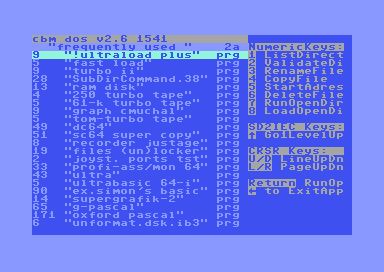
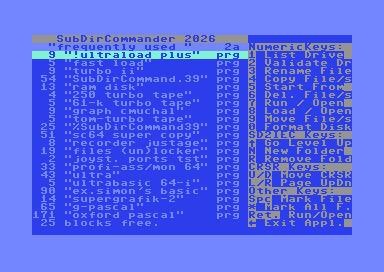
Show the current commander screen and list pi1541 and Kung Fu Flash.
The page now matches the help panel and the block counts, and says which commands Kung Fu Flash does not implement.

diff --git a/web/index.html b/web/index.html
@@ -4,7 +4,7 @@
     <meta charset="UTF-8" />
     <link rel="icon" type="image/svg+xml" href="./public/favicon.svg" />
     <meta name="viewport" content="width=device-width, initial-scale=1.0" />
-    <meta name="description" content="SubDirCommander 2026: a disk commander for the Commodore 64, in BASIC and machine code." />
+    <meta name="description" content="SubDirCommander 2026: a disk commander for the Commodore 64, for a 1541, SD2IEC, pi1541 or Kung Fu Flash." />
     <title>SubDirCommander 2026 for the C64</title>
     <link rel="stylesheet" href="./src/style.css" />
   </head>
@@ -12,29 +12,34 @@
     <main>
       <header class="hero">
         <div class="hero-text">
-          <p class="kicker">Commodore 64 · 1541 / 1541-II · SD2IEC</p>
+          <p class="kicker">Commodore 64 · 1541 / 1541-II · SD2IEC · pi1541 · Kung Fu Flash</p>
           <h1>SubDirCommander 2026</h1>
           <p class="lead">
             A disk commander for a stock C64. List a drive, move through it a line or a page
             at a time, and run, load, rename, copy, delete or validate files, including copies
             from one drive to another.
           </p>
+          <p class="lead">
+            A 1541 and 1541-II do the whole set. SD2IEC and pi1541 also make and remove
+            directories. Kung Fu Flash lists, loads, runs and deletes; its firmware does not
+            rename, copy, validate or format yet.
+          </p>
           <div class="downloads">
             <a class="btn primary" href="public/files/SubDirCommand.39.d64" download="SubDirCommand.39.d64">
               Disk image <span>SubDirCommand.39.d64</span>
             </a>
             <a class="btn" href="public/files/SubDirCommand39-ml.prg" download="%SubDirCommand39.prg">
-              Machine code <span>%SubDirCommand39 · 26 blocks</span>
+              Machine code <span>%SubDirCommand39 · 25 blocks</span>
             </a>
             <a class="btn" href="public/files/SubDirCommand.39.prg" download="SubDirCommand.39.prg">
-              BASIC <span>SubDirCommand.39 · 52 blocks</span>
+              BASIC <span>SubDirCommand.39 · 54 blocks</span>
             </a>
           </div>
         </div>
         <figure class="screen">
           <img src="./public/screen.png" width="384" height="272"
                alt="SubDir Commander on a C64 screen: the file list on the left, the key panel on the right" />
-          <figcaption>Running in VICE on a PAL C64 with a 1541</figcaption>
+          <figcaption>Current screen, from VICE on a PAL C64</figcaption>
         </figure>
       </header>
 
@@ -68,9 +73,9 @@ RUN</code></pre>
               <tr><th>8 · F8</th><td>load a program without running it</td></tr>
               <tr><th>9</th><td>move a file, on this drive or to another</td></tr>
               <tr><th>0</th><td>format the disk</td></tr>
-              <tr><th>N / R</th><td>SD2IEC: make or remove a directory</td></tr>
+              <tr><th>N / R</th><td>SD2IEC and pi1541: make or remove a directory</td></tr>
               <tr><th>Space / *</th><td>mark one file, or mark and clear all</td></tr>
-              <tr><th>↑</th><td>SD2IEC: one directory level up</td></tr>
+              <tr><th>↑</th><td>SD2IEC and pi1541: one directory level up</td></tr>
               <tr><th>←</th><td>quit to BASIC</td></tr>
             </tbody>
           </table>

diff --git a/README.md b/README.md
@@ -1,14 +1,18 @@
 # SubDirCommander 2026 for the Commodore 64
 
-A disk commander for a 1541 / 1541-II or SD2IEC drive on a stock C64. It
-lists a directory, moves a cursor through it and runs, loads, renames,
-copies, deletes and validates files. It comes in two versions with the same
-screen and keys:
+A disk commander for a 1541 / 1541-II, SD2IEC, pi1541 or Kung Fu Flash on a
+stock C64. It lists a directory, moves a cursor through it and runs, loads,
+renames, copies, deletes and validates files. It comes in two versions with
+the same screen and keys.
+
+A 1541 does the whole set. SD2IEC and pi1541 also make and remove directories.
+Kung Fu Flash lists, loads, runs and deletes; rename, copy, validate and format
+are not in its firmware yet.
 
 | File | Kind | Size |
 | --- | --- | --- |
-| `dist/SubDirCommand.39.prg` | BASIC V2 | 52 blocks |
-| `dist/%SubDirCommand39.prg` | 6502 machine code, `SYS2061` stub | 26 blocks |
+| `dist/SubDirCommand.39.prg` | BASIC V2 | 54 blocks |
+| `dist/%SubDirCommand39.prg` | 6502 machine code, `SYS2061` stub | 25 blocks |
 | `dist/fb.d64` | 1541 disk with both programs | |
 
 `%` is an ordinary character in a 1541 file name.
